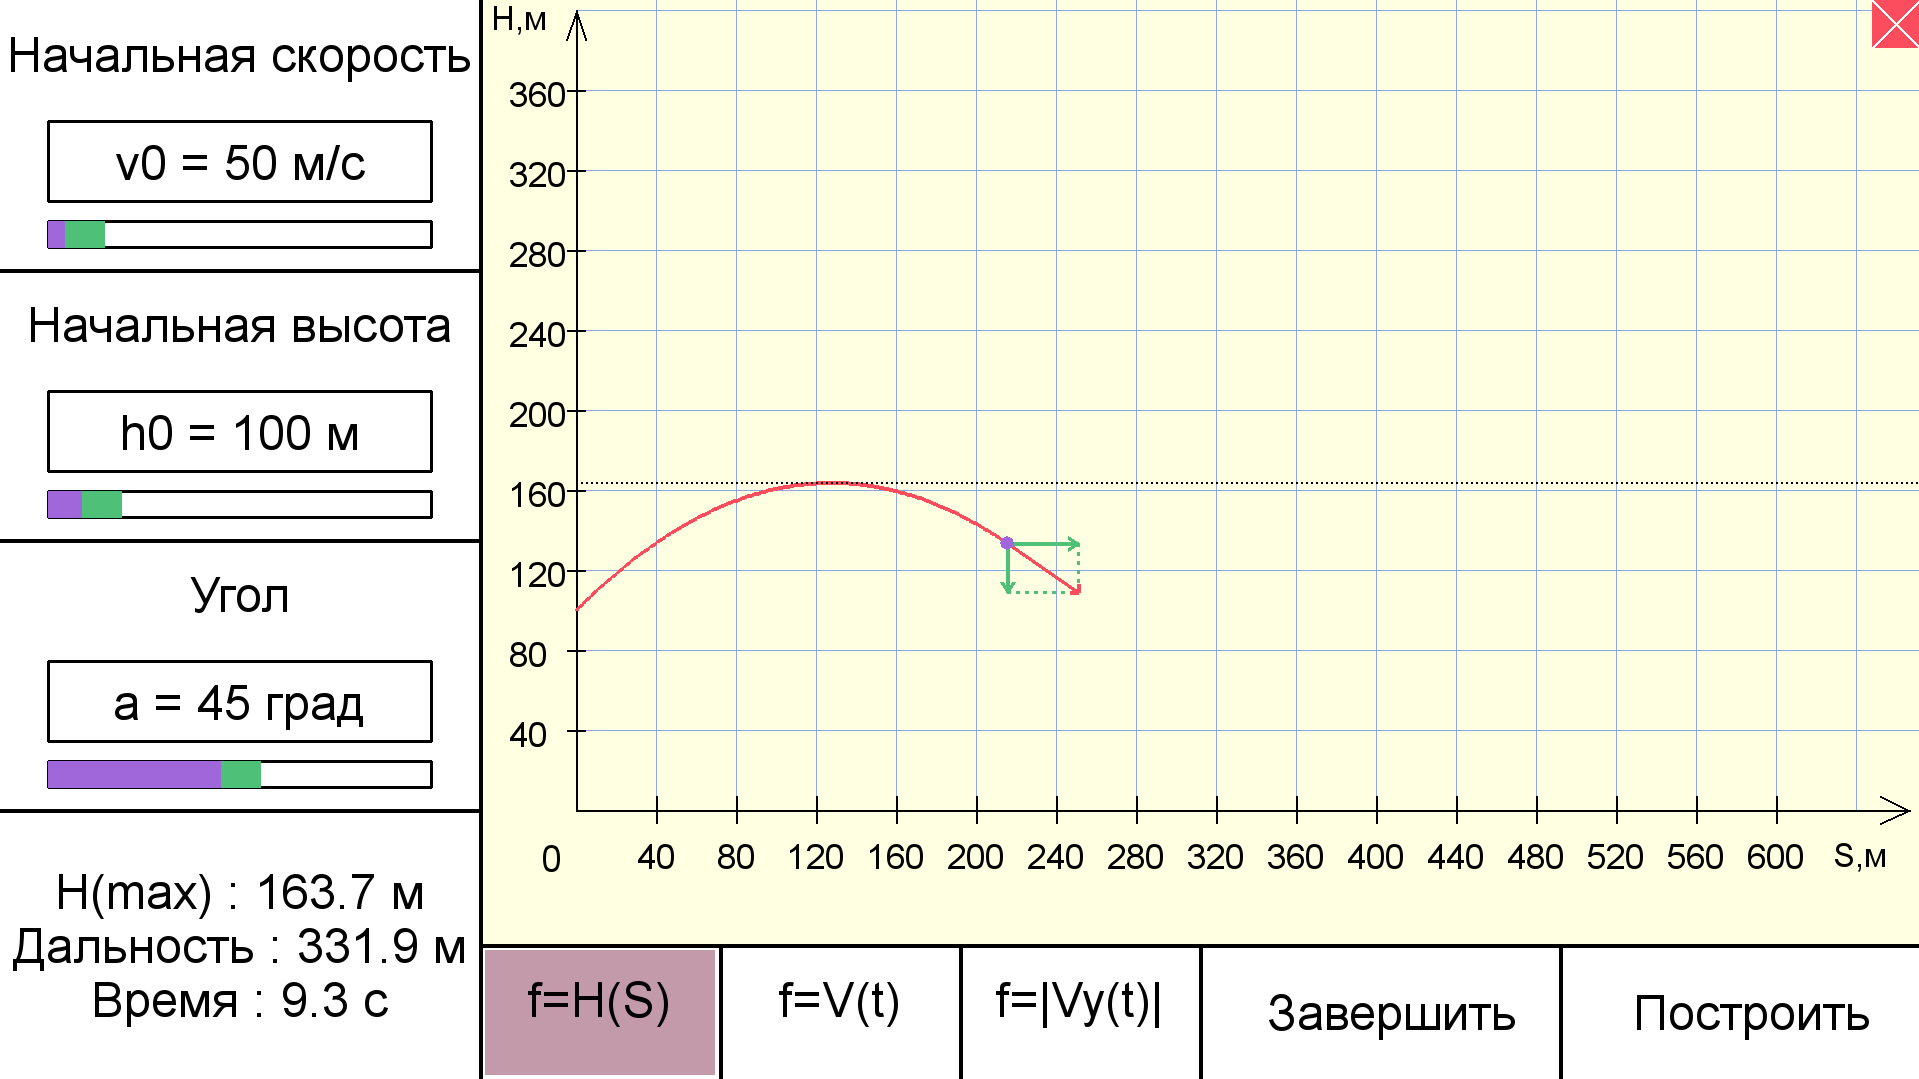
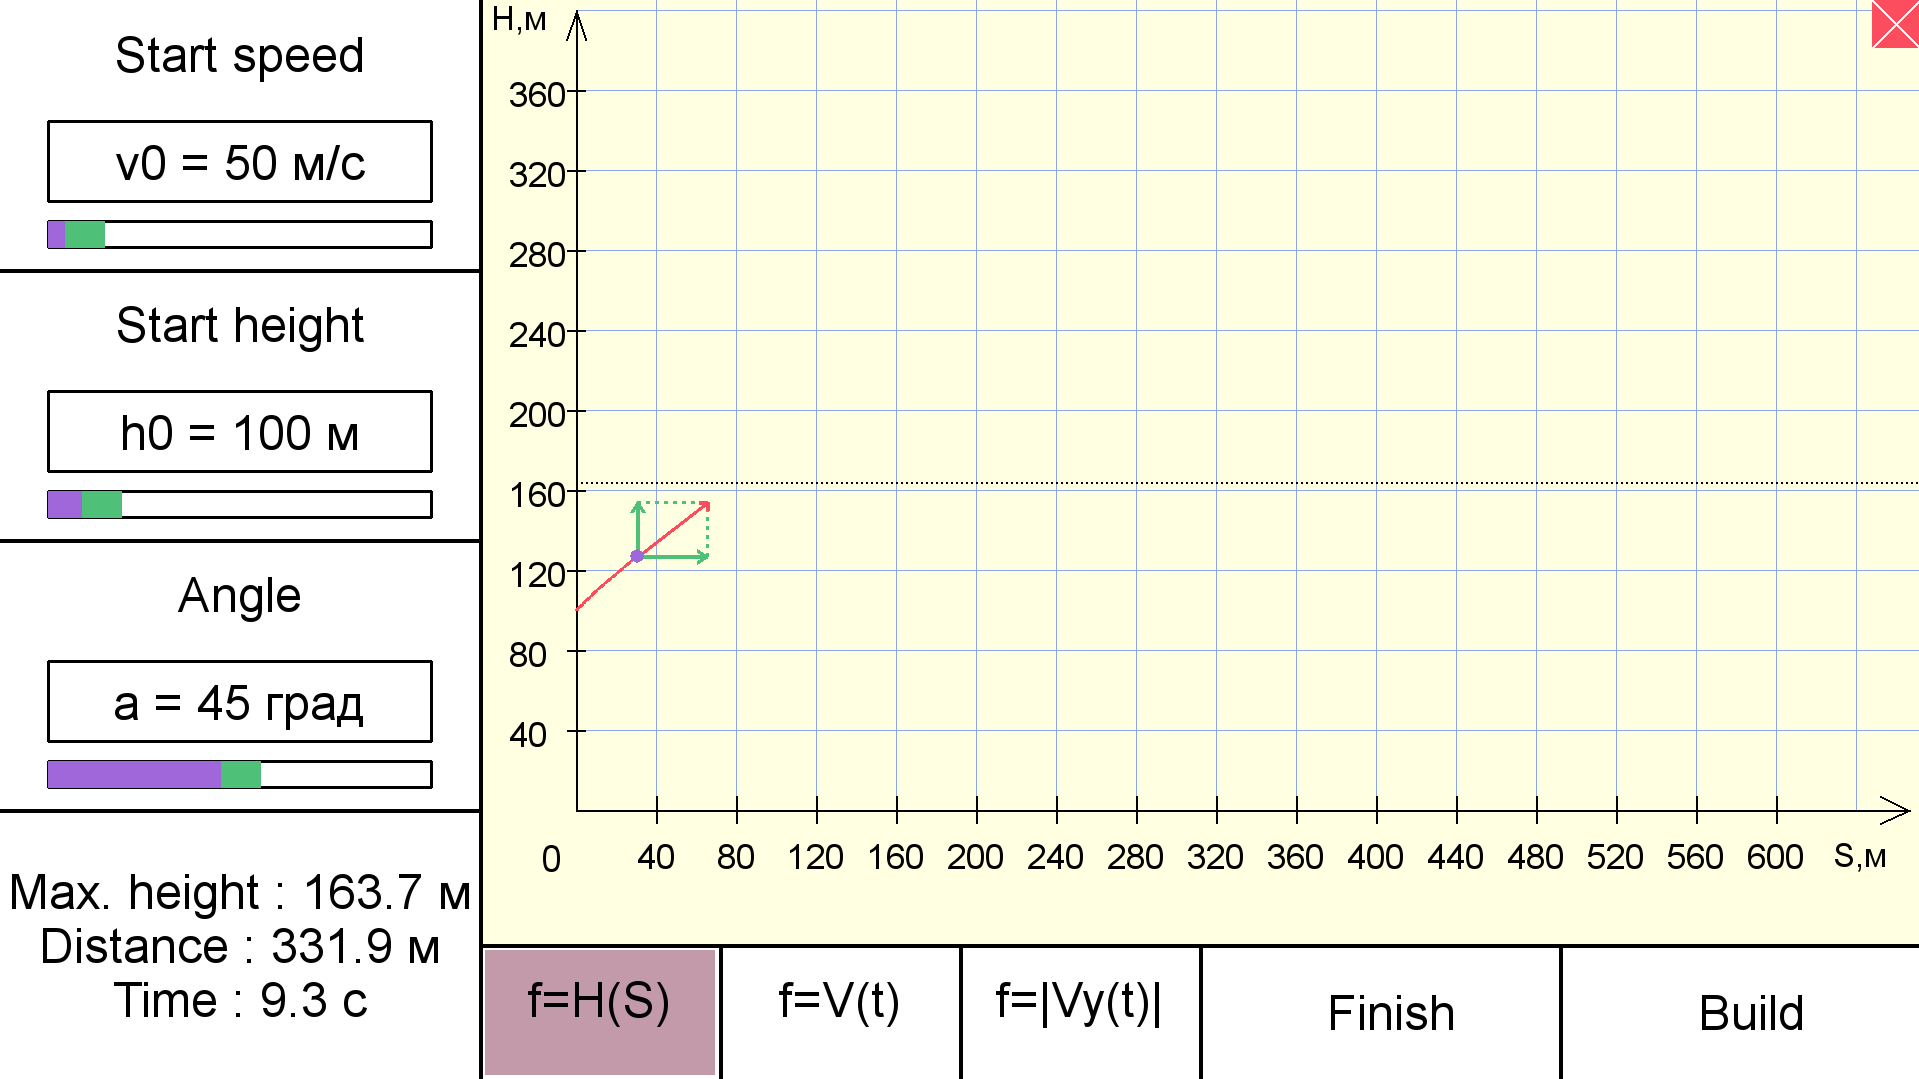
updated screenshots, bug fix

diff --git a/bigthrow.py b/bigthrow.py
@@ -258,7 +258,7 @@ def draw_gui(x_part,y_part):
     pygame.draw.line(gameDisplay,black,[x_part*2.5,y_part * 3.5],[x_part*2.5,display_height],4)
     pygame.draw.line(gameDisplay,black,[x_part*3.25,y_part * 3.5],[x_part*3.25,display_height],4)
     #v0
-    word = return_word('Начальная скорость', font_size_big)
+    word = return_word('Start speed', font_size_big)
     gameDisplay.blit(word,(x_part * 0.5 - word.get_rect().width / 2 , y_part * 0.1))
     button(v0, x_part * 0.1, y_part * 0.45,x_part * 0.8,y_part * 0.3, white, grey,'v0')
     pygame.draw.rect(gameDisplay,black, [x_part * 0.1, y_part * 0.45,x_part * 0.8,y_part * 0.3],3)
@@ -271,7 +271,7 @@ def draw_gui(x_part,y_part):
     slider(1)
     pygame.draw.rect(gameDisplay,purple, [x_part * 0.1, y_part * 0.82,slider1[0] - x_part * 0.1,y_part * 0.1],0)
     #h0
-    word = return_word('Начальная высота', font_size_big)
+    word = return_word('Start height', font_size_big)
     gameDisplay.blit(word,(x_part * 0.5 - word.get_rect().width / 2 , y_part * 1.1))
     button(h0, x_part * 0.1, y_part * 1.45,x_part * 0.8,y_part * 0.3, white, grey,'h0')
     pygame.draw.rect(gameDisplay,black, [x_part * 0.1, y_part * 1.45,x_part * 0.8,y_part * 0.3],3)
@@ -283,7 +283,7 @@ def draw_gui(x_part,y_part):
     slider(2)
     pygame.draw.rect(gameDisplay,purple, [x_part * 0.1, y_part * 1.82,slider2[0] - x_part * 0.1,y_part * 0.1],0)
     #angle
-    word = return_word('Угол', font_size_big)
+    word = return_word('Angle', font_size_big)
     gameDisplay.blit(word,(x_part * 0.5 - word.get_rect().width / 2 , y_part * 2.1))
     button(angle, x_part * 0.1, y_part * 2.45,x_part * 0.8,y_part * 0.3, white, grey,'angle')
     pygame.draw.rect(gameDisplay,black, [x_part * 0.1, y_part * 2.45,x_part * 0.8,y_part * 0.3],3)
@@ -297,20 +297,20 @@ def draw_gui(x_part,y_part):
 
     if not build_button_pressed or current_graph == 'h-s':
         button_build(x_part * 3.25, y_part * 3.5,x_part * 0.75,y_part * 0.5, white, blue)
-    word = return_word('Построить', font_size_big)
+    word = return_word('Build', font_size_big)
     gameDisplay.blit(word,(x_part * 3.65 - word.get_rect().width / 2 , y_part * 3.65))
 
     button_stop(x_part * 2.5, y_part * 3.5,x_part * 0.75,y_part * 0.5, white, blue)
-    word = return_word('Завершить', font_size_big)
+    word = return_word('Finish', font_size_big)
     gameDisplay.blit(word,(x_part * 2.9 - word.get_rect().width / 2 , y_part * 3.65))
 
-    word = return_word('H(max) : ' + str(height_var) + ' м', font_size_big)
+    word = return_word('Max. height : ' + str(height_var) + ' м', font_size_big)
     gameDisplay.blit(word,(x_part * 0.5 - word.get_rect().width / 2 , y_part * 3.2))
 
-    word = return_word('Дальность : ' + str(length_var) + ' м', font_size_big)
+    word = return_word('Distance : ' + str(length_var) + ' м', font_size_big)
     gameDisplay.blit(word,(x_part * 0.5 - word.get_rect().width / 2 , y_part * 3.4))
 
-    word = return_word('Время : ' + str(time_var) + ' с', font_size_big)
+    word = return_word('Time : ' + str(time_var) + ' с', font_size_big)
     gameDisplay.blit(word,(x_part * 0.5 - word.get_rect().width / 2 , y_part * 3.6))
 
 
@@ -327,82 +327,6 @@ def draw_gui(x_part,y_part):
     gameDisplay.blit(word,(x_part * 2.25 - word.get_rect().width / 2 , y_part * 3.6))
 
     exit_button()
-
-
-def draw_gui_build(x_part,y_part):
-
-    pygame.draw.line(gameDisplay,black,[x_part,0],[x_part,display_height],4)
-    pygame.draw.line(gameDisplay,black,[0,y_part],[x_part,y_part],4)
-    pygame.draw.line(gameDisplay,black,[0,y_part * 2],[x_part,y_part * 2],4)
-    pygame.draw.line(gameDisplay,black,[0,y_part * 3],[x_part,y_part * 3],4)
-    pygame.draw.line(gameDisplay,black,[x_part,y_part * 3.5],[display_width,y_part * 3.5],4)
-
-    pygame.draw.line(gameDisplay,black,[x_part*1.5,y_part * 3.5],[x_part*1.5,display_height],4)
-    pygame.draw.line(gameDisplay,black,[x_part*2,y_part * 3.5],[x_part*2,display_height],4)
-    pygame.draw.line(gameDisplay,black,[x_part*2.5,y_part * 3.5],[x_part*2.5,display_height],4)
-    pygame.draw.line(gameDisplay,black,[x_part*3.25,y_part * 3.5],[x_part*3.25,display_height],4)
-    #v0
-    word = return_word('Start speed', font_size_big)
-    gameDisplay.blit(word,(x_part * 0.5 - word.get_rect().width / 2 , y_part * 0.1))
-    pygame.draw.rect(gameDisplay,black, [x_part * 0.1, y_part * 0.45,x_part * 0.8,y_part * 0.3],3)
-    word = return_word('v0 = ' + v0 + kareta_v0 + ' м/с', font_size_big)
-    gameDisplay.blit(word,(x_part * 0.5 - word.get_rect().width / 2 , y_part * 0.5))
-
-    pygame.draw.rect(gameDisplay,black, [x_part * 0.1, y_part * 0.82,x_part * 0.8,y_part * 0.1],3)
-    slider(1)
-    pygame.draw.rect(gameDisplay,purple, [x_part * 0.1, y_part * 0.82,slider1[0] - x_part * 0.1,y_part * 0.1],0)
-    #h0
-    word = return_word('Start height', font_size_big)
-    gameDisplay.blit(word,(x_part * 0.5 - word.get_rect().width / 2 , y_part * 1.1))
-    pygame.draw.rect(gameDisplay,black, [x_part * 0.1, y_part * 1.45,x_part * 0.8,y_part * 0.3],3)
-    word = return_word('h0 = ' + h0 + kareta_h0 + ' м', font_size_big)
-    gameDisplay.blit(word,(x_part * 0.5 - word.get_rect().width / 2 , y_part * 1.5))
-
-    pygame.draw.rect(gameDisplay,black, [x_part * 0.1, y_part * 1.82,x_part * 0.8,y_part * 0.1],3)
-    slider(2)
-    pygame.draw.rect(gameDisplay,purple, [x_part * 0.1, y_part * 1.82,slider2[0] - x_part * 0.1,y_part * 0.1],0)
-    #angle
-    word = return_word('Angle', font_size_big)
-    gameDisplay.blit(word,(x_part * 0.5 - word.get_rect().width / 2 , y_part * 2.1))
-    pygame.draw.rect(gameDisplay,black, [x_part * 0.1, y_part * 2.45,x_part * 0.8,y_part * 0.3],3)
-    word = return_word('a = ' + angle + kareta_angle + ' град', font_size_big)
-    gameDisplay.blit(word,(x_part * 0.5 - word.get_rect().width / 2 , y_part * 2.5))
-
-    pygame.draw.rect(gameDisplay,black, [x_part * 0.1, y_part * 2.82,x_part * 0.8,y_part * 0.1],3)
-    slider(3)
-    pygame.draw.rect(gameDisplay,purple, [x_part * 0.1, y_part * 2.82,slider3[0] - x_part * 0.1,y_part * 0.1],0)
-
-    #button_build(x_part * 3.25, y_part * 3.5,x_part * 0.75,y_part * 0.5, white, blue)
-    word = return_word('Build', font_size_big)
-    gameDisplay.blit(word,(x_part * 3.65 - word.get_rect().width / 2 , y_part * 3.65))
-
-    button_stop(x_part * 2.5, y_part * 3.5,x_part * 0.75,y_part * 0.5, white, blue)
-    word = return_word('Finish', font_size_big)
-    gameDisplay.blit(word,(x_part * 2.9 - word.get_rect().width / 2 , y_part * 3.65))
-
-    word = return_word('Max. height : ' + str(height_var) + ' м', font_size_big)
-    gameDisplay.blit(word,(x_part * 0.5 - word.get_rect().width / 2 , y_part * 3.2))
-
-    word = return_word('Distance : ' + str(length_var) + ' м', font_size_big)
-    gameDisplay.blit(word,(x_part * 0.5 - word.get_rect().width / 2 , y_part * 3.4))
-
-    word = return_word('Time : ' + str(time_var) + ' c', font_size_big)
-    gameDisplay.blit(word,(x_part * 0.5 - word.get_rect().width / 2 , y_part * 3.6))
-
-    button_1(x_part * 1, y_part * 3.5,x_part * 0.5,y_part * 0.5, white, blue)
-    word = return_word('f=H(S)', font_size_big)
-    gameDisplay.blit(word,(x_part * 1.25 - word.get_rect().width / 2 , y_part * 3.6))
-
-    #button_2(x_part * 1.5, y_part * 3.5,x_part * 0.5,y_part * 0.5, white, blue)
-    word = return_word('f=V(t)', font_size_big)
-    gameDisplay.blit(word,(x_part * 1.75 - word.get_rect().width / 2 , y_part * 3.6))
-
-    #button_3(x_part * 2, y_part * 3.5,x_part * 0.5,y_part * 0.5, white, blue)
-    word = return_word('f=|Vy(t)|', font_size_big)
-    gameDisplay.blit(word,(x_part * 2.25 - word.get_rect().width / 2 , y_part * 3.6))
-
-    exit_button()
-
 
 def button_1(x, y, w, h, ic, ac):
     global finish_bool
@@ -827,7 +751,7 @@ def build_trajectory():
         while i < display_width - x_part*1.2:
             pygame.draw.line(gameDisplay,black,[x_part*1.2 + i,y_part * 3 - height_var * h_const],[x_part*1.2 + i + 1,y_part * 3 - height_var * h_const],2)
             i += 5
-        draw_gui_build(x_part,y_part)
+        draw_gui(x_part,y_part)
         pygame.display.update()
         clock.tick(30)
     finish_bool = True
